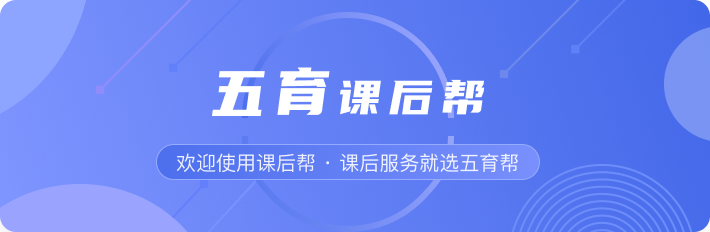
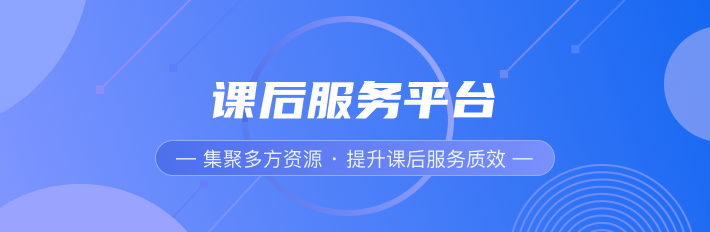
fix: 展示数据展示% 名称展示为XM||username 替换背景图

diff --git a/src/pages/Mobile/Homepage/Home/index.less b/src/pages/Mobile/Homepage/Home/index.less
@@ -1,52 +1,51 @@
-@import '../theme.less' ;
+@import '../theme.less';
 
-.topContainer{
+.topContainer {
   position: fixed;
-  text-align: center;
-  background-color: #3874c5;
+  z-index: 9;
   width: 100%;
   height: 43px;
-  color: #FFFFFF;
+  margin: 0;
+  color: #ffffff;
   font-size: 17px;
   line-height: 43px;
-  margin: 0;
-  z-index: 9;
+  text-align: center;
+  background-color: #3874c5;
 }
 
 .indexPage {
-  background-color: @pageBgColor;
   min-height: 900px;
   padding-top: 36px;
+  background-color: @pageBgColor;
   :global {
-    .ant-empty-description{
+    .ant-empty-description {
       color: #999;
       font-size: 12px;
     }
   }
-  .topInfo{
+  .topInfo {
     height: 78px;
     background-repeat: no-repeat;
-    background-size:100% 100%;
-    box-shadow: 0px 2px 4px rgba(151, 151, 151, 0.65);
+    background-size: 100% 100%;
     border-radius: 0px 0px 8px 8px;
-    .teacherInfo{
-      color: #fff;
+    box-shadow: 0px 2px 4px rgba(151, 151, 151, 0.65);
+    .teacherInfo {
       padding: 12px;
-      p{
+      color: #fff;
+      p {
+        margin: 4px 0 6px 0;
         font-weight: bold;
         font-size: 16px;
         line-height: 22px;
-        margin: 4px 0 6px 0;
       }
-      .school{
-        margin-left: 6px;
+      .school {
         font-size: 14px;
         line-height: 20px;
       }
     }
-    .signOut{
-      font-size: 20px;
+    .signOut {
       color: #fff;
+      font-size: 20px;
       transform: translateY(70%);
     }
   }
@@ -59,10 +58,11 @@
       height: 116px;
       margin: 20px 0;
       background-repeat: no-repeat;
-      background-size:100% 100%;
+      background-size: 100% 100%;
       border-radius: 6px;
       box-shadow: 0 0 0px rgba(0, 0, 0, 0.1);
-      &.dev, &.prod {
+      &.dev,
+      &.prod {
         background-image: url('/banner.png');
       }
       &.chanming {
@@ -73,64 +73,64 @@
       }
     }
   }
-  .things{
+  .things {
     margin-bottom: 10px;
   }
-  .overview{
+  .overview {
     margin-bottom: 20px;
-    .card{
+    .card {
       height: '95.7px';
       padding: 0;
-      box-shadow: 0px 5px 10px 0px rgba(0,0,0,0.1);
-      -webkit-box-shadow: 0px 5px 10px 0px rgba(0,0,0,0.1);
-      -moz-box-shadow: 0px 5px 10px 0px rgba(0,0,0,0.1);
-      p:nth-child(1){
+      -webkit-box-shadow: 0px 5px 10px 0px rgba(0, 0, 0, 0.1);
+      -moz-box-shadow: 0px 5px 10px 0px rgba(0, 0, 0, 0.1);
+      box-shadow: 0px 5px 10px 0px rgba(0, 0, 0, 0.1);
+      p:nth-child(1) {
         color: #999999;
         font-size: 12px;
         line-height: 17px;
       }
-      p:nth-child(2){
+      p:nth-child(2) {
         color: #333333;
         font-weight: bold;
         font-size: 18px;
         line-height: 22px;
       }
-      .bgImg{
-        width: 80px;
-        height: 80px;
+      .bgImg {
         position: absolute;
         right: 0;
         bottom: 0;
+        width: 80px;
+        height: 80px;
       }
     }
   }
-  .notice{
-    :global{
+  .notice {
+    :global {
       .ant-tabs-top > .ant-tabs-nav::before,
       .ant-tabs-bottom > .ant-tabs-nav::before,
       .ant-tabs-top > div > .ant-tabs-nav::before,
       .ant-tabs-bottom > div > .ant-tabs-nav::before {
         border-bottom: 0;
       }
-      .ant-tabs-tab .ant-tabs-tab-btn{
+      .ant-tabs-tab .ant-tabs-tab-btn {
         font-size: 16px;
       }
       .ant-tabs-tab.ant-tabs-tab-active .ant-tabs-tab-btn {
         font-weight: bold;
       }
-      .ant-btn-primary{
+      .ant-btn-primary {
         border: 0;
       }
       button[ant-click-animating-without-extra-node]:after {
         border: 0 none;
         opacity: 0;
-        animation:none 0 ease 0 1 normal;
+        animation: none 0 ease 0 1 normal;
       }
-
     }
   }
 
-  .overview,.things{
+  .overview,
+  .things {
     :global {
       .ant-tabs-tab + .ant-tabs-tab {
         margin-left: 28px;
@@ -143,8 +143,8 @@
       .ant-tabs-bottom > div > .ant-tabs-nav {
         height: 22px;
         margin-bottom: 12px;
-        line-height: 22px;
         padding: 0 5px;
+        line-height: 22px;
       }
 
       .ant-tabs-top > .ant-tabs-nav::before,
@@ -184,8 +184,9 @@
   }
 }
 
-.allThings,.allNotice{
+.allThings,
+.allNotice {
   min-height: 900px;
-  background-color: @pageBgColor;
   padding: 10px;
+  background-color: @pageBgColor;
 }

diff --git a/src/pages/Mobile/Homepage/Home/index.tsx b/src/pages/Mobile/Homepage/Home/index.tsx
@@ -20,15 +20,14 @@ const Home = () => {
         <Row style={{ height: '74px' }} className={styles.teacherInfo}>
           <Col span={22}>
             <p>
-              {currentUser?.UserId === '未知' && currentUser.wechatUserId ? (
+              {currentUser?.XM === '未知' && currentUser.wechatUserId ? (
                 <WWOpenDataCom type="userName" openid={currentUser.wechatUserId} />
               ) : (
-                currentUser?.username
+                currentUser?.XM || currentUser?.username
               )}
               ，您好！
             </p>
             <div>
-              <Avatar size={18} style={{ height: 0 }} src={<Image src={currentUser?.avatar} fallback={defUserImg} />} />
               <span className={styles.school}> {currentUser?.QYMC || ''}</span>
             </div>
           </Col>

diff --git a/src/pages/Mobile/Homepage/Statistical/c-pages/Course.tsx b/src/pages/Mobile/Homepage/Statistical/c-pages/Course.tsx
@@ -121,7 +121,15 @@ const course = () => {
         <ModuleTitle data="学校、机构课程对比" />
         <div className={styles.chartsContainer}>
           {proportionConfig.data && proportionConfig.data?.length !== 0 ? (
-            <Pie {...proportionConfig} />
+            <Pie
+              {...proportionConfig}
+              tooltip={{
+                formatter: (datum: any) => {
+                  console.log(datum);
+                  return { name: datum.type, value: datum.value + '%' };
+                }
+              }}
+            />
           ) : (
             <Empty
               image={noData}
